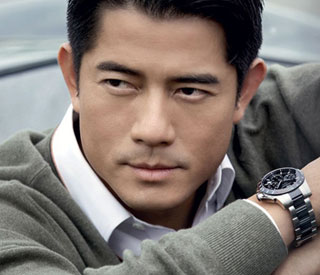
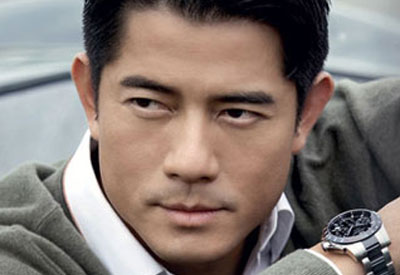
更新

diff --git a/100/w/css/screen.css b/100/w/css/screen.css
@@ -151,7 +151,7 @@ body{
 	
 }
 .banner .tupian{
-	width: 500%;
+	width: 700%;
 	position: absolute;
 
 }
